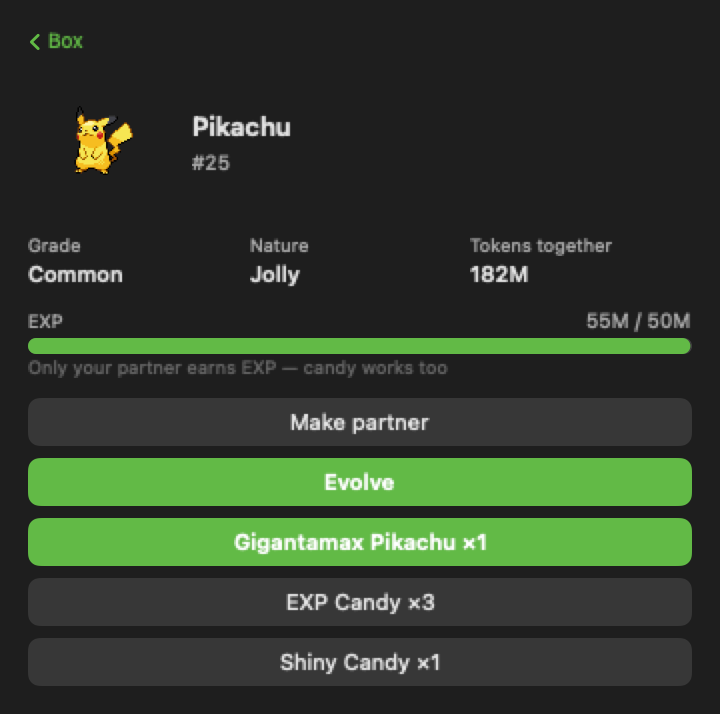
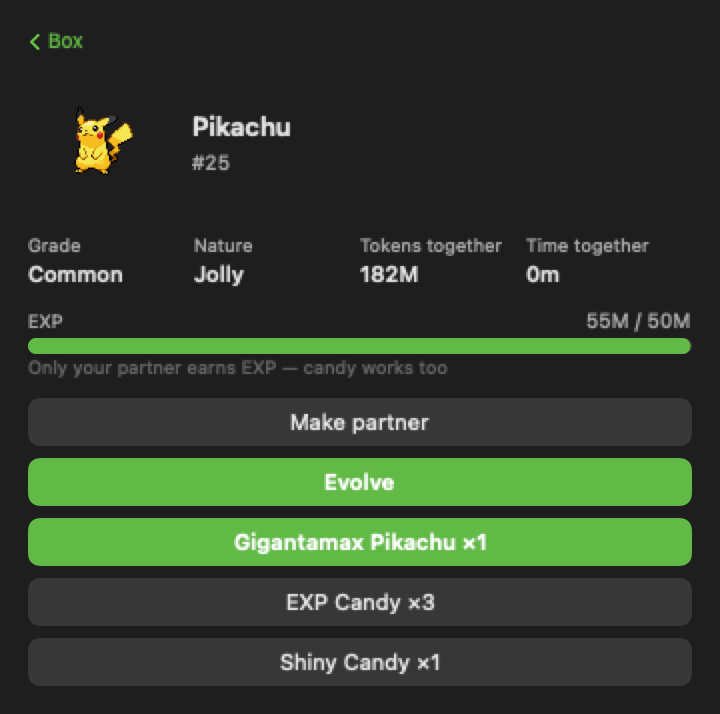
feat: show how long and how much you have been with your partner
The home card already showed the experience gauge, which resets at every
evolution and so says nothing about the partnership itself. Track the
time each individual has spent as the partner across separate stints and
surface it next to the tokens spent together, on both the home card and
the detail screen.

Changed region(s): [[0.4889, 0.3081, 0.9167, 0.4006], [0.275, 0.3389, 0.4278, 0.4006]]

diff --git a/Tests/PokeDexBarTests/IndividualDecodeTests.swift b/Tests/PokeDexBarTests/IndividualDecodeTests.swift
@@ -214,3 +214,101 @@ final class ShopPriceTests: XCTestCase {
         }
     }
 }
+
+/// 함께한 시간 — 파트너를 바꿔 가며 데리고 다녀도 누적이 맞아야 한다.
+@MainActor
+final class PartnerTimeTests: XCTestCase {
+    private var clock = Date(timeIntervalSince1970: 1_000_000)
+
+    private func makeStore() -> PlayerStore {
+        let url = FileManager.default.temporaryDirectory
+            .appendingPathComponent("time-\(UUID().uuidString).json")
+        return PlayerStore(fileURL: url, rng: SeededRNG(seed: 2), now: { self.clock },
+                           defaults: UserDefaults(suiteName: "time-\(UUID().uuidString)")!)
+    }
+
+    private func add(_ store: PlayerStore, species: Int) -> UUID {
+        let individual = Individual(baseID: species, speciesID: species, pathIDs: [species],
+                                    nature: .serious, obtainedAt: clock, grade: .common)
+        store.addForTesting(individual)
+        return individual.id
+    }
+
+    private func find(_ store: PlayerStore, _ id: UUID) -> Individual {
+        store.state.box.first { $0.id == id }!
+    }
+
+    func testDurationGrowsWhileItIsThePartner() {
+        let store = makeStore()
+        let id = add(store, species: 1)
+        store.setPartner(id)
+        clock = clock.addingTimeInterval(3_600)
+        XCTAssertEqual(find(store, id).partnerDuration(at: clock), 3_600)
+    }
+
+    /// 파트너에서 내려오면 시계가 멈춘다 — 안 멈추면 벤치에 앉은 개체도 계속 시간이 는다.
+    func testDurationStopsWhenAnotherBecomesPartner() {
+        let store = makeStore()
+        let first = add(store, species: 1)
+        let second = add(store, species: 4)
+        store.setPartner(first)
+        clock = clock.addingTimeInterval(7_200)
+        store.setPartner(second)
+        clock = clock.addingTimeInterval(10_000)
+        XCTAssertEqual(find(store, first).partnerDuration(at: clock), 7_200, "내려온 뒤에도 시간이 늘었다")
+        XCTAssertEqual(find(store, second).partnerDuration(at: clock), 10_000)
+    }
+
+    /// 다시 데리고 나오면 이어서 쌓인다 — 초기화되면 안 된다.
+    func testDurationResumesOnASecondStint() {
+        let store = makeStore()
+        let first = add(store, species: 1)
+        let second = add(store, species: 4)
+        store.setPartner(first)
+        clock = clock.addingTimeInterval(100)
+        store.setPartner(second)
+        clock = clock.addingTimeInterval(500)
+        store.setPartner(first)
+        clock = clock.addingTimeInterval(50)
+        XCTAssertEqual(find(store, first).partnerDuration(at: clock), 150, "두 번째 구간이 이어지지 않는다")
+    }
+
+    /// 같은 개체를 다시 지정해도 구간이 끊기지 않는다.
+    func testReassigningTheSamePartnerKeepsTheClockRunning() {
+        let store = makeStore()
+        let id = add(store, species: 1)
+        store.setPartner(id)
+        clock = clock.addingTimeInterval(600)
+        store.setPartner(id)
+        clock = clock.addingTimeInterval(600)
+        XCTAssertEqual(find(store, id).partnerDuration(at: clock), 1_200)
+    }
+
+    /// 시계가 뒤로 뛰어도 음수가 되지 않는다.
+    func testBackwardClockDoesNotGoNegative() {
+        let store = makeStore()
+        let id = add(store, species: 1)
+        store.setPartner(id)
+        XCTAssertEqual(find(store, id).partnerDuration(at: clock.addingTimeInterval(-9_999)), 0)
+    }
+
+    /// 봉인 이전 세이브의 파트너는 시작 시각이 없다 — 사용량 갱신에서 늦게라도 시계를 건다.
+    func testLegacyPartnerStartsCountingOnTheNextUpdate() {
+        let store = makeStore()
+        let id = add(store, species: 1)
+        store.setPartner(id)
+        store.mutate { $0.box[0].partnerSince = nil }   // 구 세이브 흉내
+        store.update(todayTokens: 0, todayDate: "2026-01-01", hasUsageData: true)
+        store.update(todayTokens: 10, todayDate: "2026-01-01", hasUsageData: true)
+        XCTAssertNotNil(find(store, id).partnerSince, "구 세이브 파트너의 시계가 영영 안 걸린다")
+    }
+
+    func testTogetherTextPicksTheTwoLargestUnits() {
+        let l = L(.ko)
+        XCTAssertEqual(Individual.togetherText(seconds: 0, l), "0분")
+        XCTAssertEqual(Individual.togetherText(seconds: 90, l), "1분")
+        XCTAssertEqual(Individual.togetherText(seconds: 3_600 * 5 + 60 * 7, l), "5시간 7분")
+        XCTAssertEqual(Individual.togetherText(seconds: 86_400 * 3 + 3_600 * 4, l), "3일 4시간")
+        XCTAssertEqual(Individual.togetherText(seconds: -50, l), "0분")
+    }
+}

diff --git a/Sources/PokeDexBar/Player/Individual.swift b/Sources/PokeDexBar/Player/Individual.swift
@@ -17,6 +17,11 @@ struct Individual: Identifiable, Codable, Sendable, Equatable {
     /// 이 개체를 파트너로 두고 쓴 토큰의 누적. 경험치와 달리 진화해도 안 줄고, 경험치 부적으로
     /// 2배가 되지도 않는다 — "이 아이와 얼마나 함께 일했나"의 기록이라 실제 쓴 토큰만 센다.
     var partnerTokens = 0
+    /// 파트너로 지낸 시간의 누적(초). 파트너를 바꿀 때 그 구간을 여기 더한다.
+    var partnerSeconds = 0
+    /// 지금 파트너라면 언제부터인가. 파트너가 아니면 nil — 지금 구간은 아직 안 닫혀서
+    /// `partnerSeconds` 에 안 들어가 있다(표시할 땐 둘을 더한다).
+    var partnerSince: Date?
     var obtainedAt: Date
     var grade: Grade
     /// 지금 취하고 있는 폼의 Showdown 슬러그(`charizard-megax`). nil 이면 보통 모습.
@@ -40,9 +45,26 @@ struct Individual: Identifiable, Codable, Sendable, Equatable {
     /// 몇 번째 형태인가(0 = 아직 안 진화). 경로가 비어도 음수로 새지 않는다.
     var stageIndex: Int { max(0, pathIDs.count - 1) }
 
+    /// 함께한 시간 표기 — 가장 큰 단위 둘까지. 순수 함수라 테스트로 잠근다.
+    static func togetherText(seconds: Int, _ l: L) -> String {
+        let s = max(0, seconds)
+        let days = s / 86_400, hours = (s % 86_400) / 3_600, minutes = (s % 3_600) / 60
+        if days > 0 { return l.togetherDays(days, hours) }
+        if hours > 0 { return l.togetherHours(hours, minutes) }
+        return l.togetherMinutes(minutes)
+    }
+
+    /// 지금까지 파트너로 지낸 총 시간(초) — 닫힌 구간 + 아직 진행 중인 구간.
+    /// 시계가 뒤로 뛰어도 음수가 되지 않게 자른다.
+    func partnerDuration(at now: Date) -> Int {
+        guard let partnerSince else { return partnerSeconds }
+        return partnerSeconds + max(0, Int(now.timeIntervalSince(partnerSince)))
+    }
+
     /// 기본 이니셜라이저 — 아래 `init(from:)` 을 직접 쓰면서 합성 이니셜라이저가 사라지므로 명시한다.
     init(id: UUID = UUID(), baseID: Int, speciesID: Int, pathIDs: [Int], shiny: Bool = false,
-         nature: PokemonNature, exp: Int = 0, partnerTokens: Int = 0, obtainedAt: Date,
+         nature: PokemonNature, exp: Int = 0, partnerTokens: Int = 0, partnerSeconds: Int = 0,
+         partnerSince: Date? = nil, obtainedAt: Date,
          grade: Grade, form: String? = nil, region: Region? = nil, regionVariant: String? = nil) {
         self.id = id
         self.baseID = baseID
@@ -52,6 +74,8 @@ struct Individual: Identifiable, Codable, Sendable, Equatable {
         self.nature = nature
         self.exp = exp
         self.partnerTokens = partnerTokens
+        self.partnerSeconds = partnerSeconds
+        self.partnerSince = partnerSince
         self.obtainedAt = obtainedAt
         self.grade = grade
         self.form = form
@@ -80,6 +104,8 @@ struct Individual: Identifiable, Codable, Sendable, Equatable {
         shiny = value(.shiny, false)
         exp = value(.exp, 0)
         partnerTokens = value(.partnerTokens, 0)
+        partnerSeconds = value(.partnerSeconds, 0)
+        partnerSince = value(.partnerSince, nil)
         obtainedAt = value(.obtainedAt, Date(timeIntervalSince1970: 0))
         form = value(.form, nil)
         region = value(.region, nil)

diff --git a/Sources/PokeDexBar/Player/PlayerStore.swift b/Sources/PokeDexBar/Player/PlayerStore.swift
@@ -46,6 +46,7 @@ final class PlayerStore {
                                     shiny: false, nature: nature, exp: 0,
                                     obtainedAt: now(), grade: grade)
         state.box.append(individual)
+        state.box[state.box.count - 1].partnerSince = now()
         state.partnerID = individual.id
         state.starterChosen = true
         state.dex.insert(speciesID)
@@ -91,6 +92,8 @@ final class PlayerStore {
             state.earnedTokens += delta
             if let index = state.box.firstIndex(where: { $0.id == state.partnerID }) {
                 state.box[index].exp += Self.expGain(delta, charm: state.ownsExpCharm)
+                // 봉인 이전 세이브의 파트너에는 시작 시각이 없다 — 여기서 늦게라도 시계를 건다.
+                if state.box[index].partnerSince == nil { state.box[index].partnerSince = now() }
                 // 함께 쓴 토큰 기록은 부적과 무관하게 실제 쓴 만큼만 센다.
                 state.box[index].partnerTokens += delta
             }
@@ -105,8 +108,23 @@ final class PlayerStore {
 
     func setPartner(_ id: UUID) {
         guard state.box.contains(where: { $0.id == id }) else { return }
+        guard id != state.partnerID else { return }   // 같은 개체를 다시 지정해도 시계를 끊지 않는다
+        Self.closePartnerStint(in: &state, at: now())
         state.partnerID = id
+        if let index = state.box.firstIndex(where: { $0.id == id }) {
+            state.box[index].partnerSince = now()
+        }
         save()
+    }
+
+    /// 지금 파트너의 진행 중인 구간을 닫아 누적에 더한다. 파트너를 바꾸기 직전에 부른다 —
+    /// 안 닫으면 이전 파트너의 `partnerSince` 가 남아 파트너가 아닌데도 시간이 계속 늘어난다.
+    static func closePartnerStint(in state: inout PlayerState, at now: Date) {
+        guard let current = state.partnerID,
+              let index = state.box.firstIndex(where: { $0.id == current }),
+              let since = state.box[index].partnerSince else { return }
+        state.box[index].partnerSeconds += max(0, Int(now.timeIntervalSince(since)))
+        state.box[index].partnerSince = nil
     }
 
     func registerInDex(_ speciesID: Int) {

diff --git a/Sources/PokeDexBar/UI/PopoverView.swift b/Sources/PokeDexBar/UI/PopoverView.swift
@@ -166,6 +166,13 @@ struct PopoverView: View {
 
     // MARK: 홈 — 파트너 카드
 
+    private func partnerStat(_ title: String, _ value: String) -> some View {
+        HStack(spacing: 3) {
+            Text(title).font(.system(size: 9)).foregroundStyle(.tertiary)
+            Text(value).font(.system(size: 10, weight: .medium)).monospacedDigit()
+        }
+    }
+
     /// 홈 상단 — 지금 데리고 다니는 개체의 초상화 + 경험치 진행도. 파트너 상세(진화 실행 등)는 박스에서.
     @ViewBuilder
     private var partnerCard: some View {
@@ -195,6 +202,14 @@ struct PopoverView: View {
                         .font(.caption2).foregroundStyle(.secondary)
                     ProgressView(value: BoxTabView.progress(partner))
                         .controlSize(.small).tint(.orange)
+                    // 이 아이와 얼마나, 얼마만큼 — 경험치 게이지가 못 보여주는 누적을 여기서 보여준다.
+                    HStack(spacing: 10) {
+                        partnerStat(l.detailPartnerTime,
+                                    Individual.togetherText(
+                                        seconds: partner.partnerDuration(at: player.currentDate()), l))
+                        partnerStat(l.detailPartnerTokens,
+                                    TokenFormatter.compact(partner.partnerTokens))
+                    }
                 }
                 Spacer()
             }

diff --git a/Sources/PokeDexBar/Core/Localization.swift b/Sources/PokeDexBar/Core/Localization.swift
@@ -88,6 +88,17 @@ struct L {
     var detailExp: String { t("경험치", "EXP", "けいけんち") }
     /// 이 개체를 파트너로 두고 함께 쓴 토큰 누적 — 진화해도 안 줄어드는 "같이 일한 기록".
     var detailPartnerTokens: String { t("함께 쓴 토큰", "Tokens together", "一緒に使ったトークン") }
+    var detailPartnerTime: String { t("함께한 시간", "Time together", "一緒の時間") }
+    /// 함께한 시간 표기 — 가장 큰 단위 둘까지만. 초 단위는 "방금 만난" 경우에만 의미가 있다.
+    func togetherDays(_ days: Int, _ hours: Int) -> String {
+        t("\(days)일 \(hours)시간", "\(days)d \(hours)h", "\(days)日\(hours)時間")
+    }
+    func togetherHours(_ hours: Int, _ minutes: Int) -> String {
+        t("\(hours)시간 \(minutes)분", "\(hours)h \(minutes)m", "\(hours)時間\(minutes)分")
+    }
+    func togetherMinutes(_ minutes: Int) -> String {
+        t("\(minutes)분", "\(minutes)m", "\(minutes)分")
+    }
     var detailMaxStage: String { t("더 진화하지 않아요", "Fully evolved", "これいじょうしんかしない") }
     var detailPartnerOnlyExp: String {
         t("경험치는 파트너만 쌓여요 — 사탕으로도 올릴 수 있어요",

diff --git a/Sources/PokeDexBar/UI/IndividualDetailView.swift b/Sources/PokeDexBar/UI/IndividualDetailView.swift
@@ -101,6 +101,8 @@ struct IndividualDetailView: View {
             fact(l.detailGrade, individual.grade.label(store.language))
             fact(l.detailNature, individual.nature.name(store.language))
             fact(l.detailPartnerTokens, TokenFormatter.compact(individual.partnerTokens))
+            fact(l.detailPartnerTime,
+                 Individual.togetherText(seconds: individual.partnerDuration(at: store.currentDate()), l))
         }
     }
 
